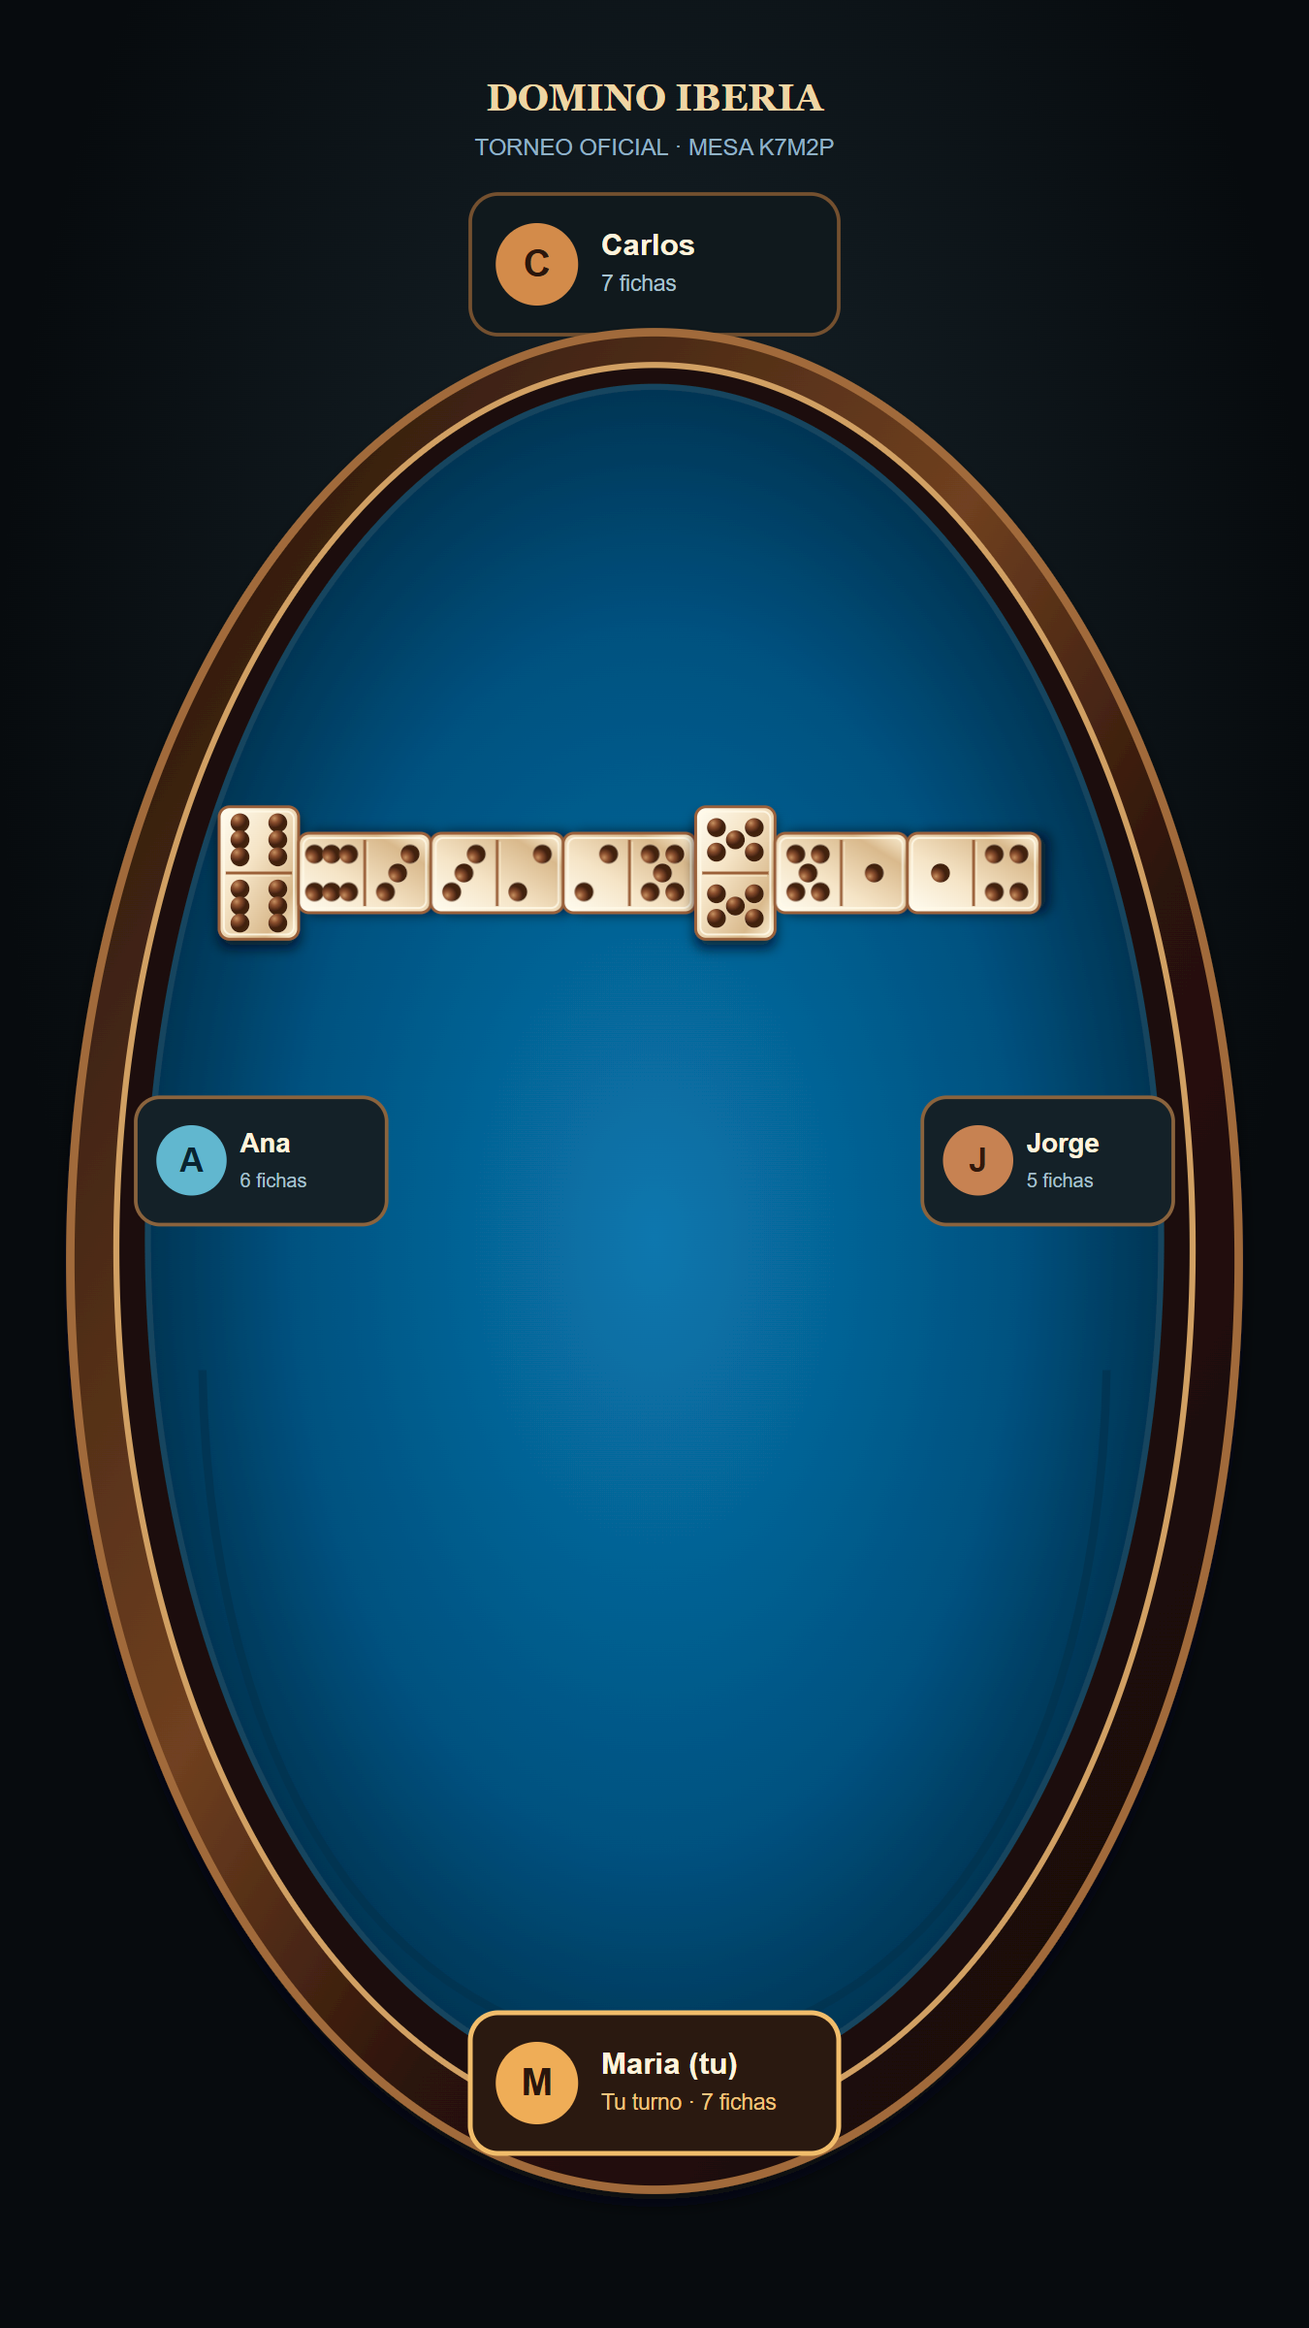
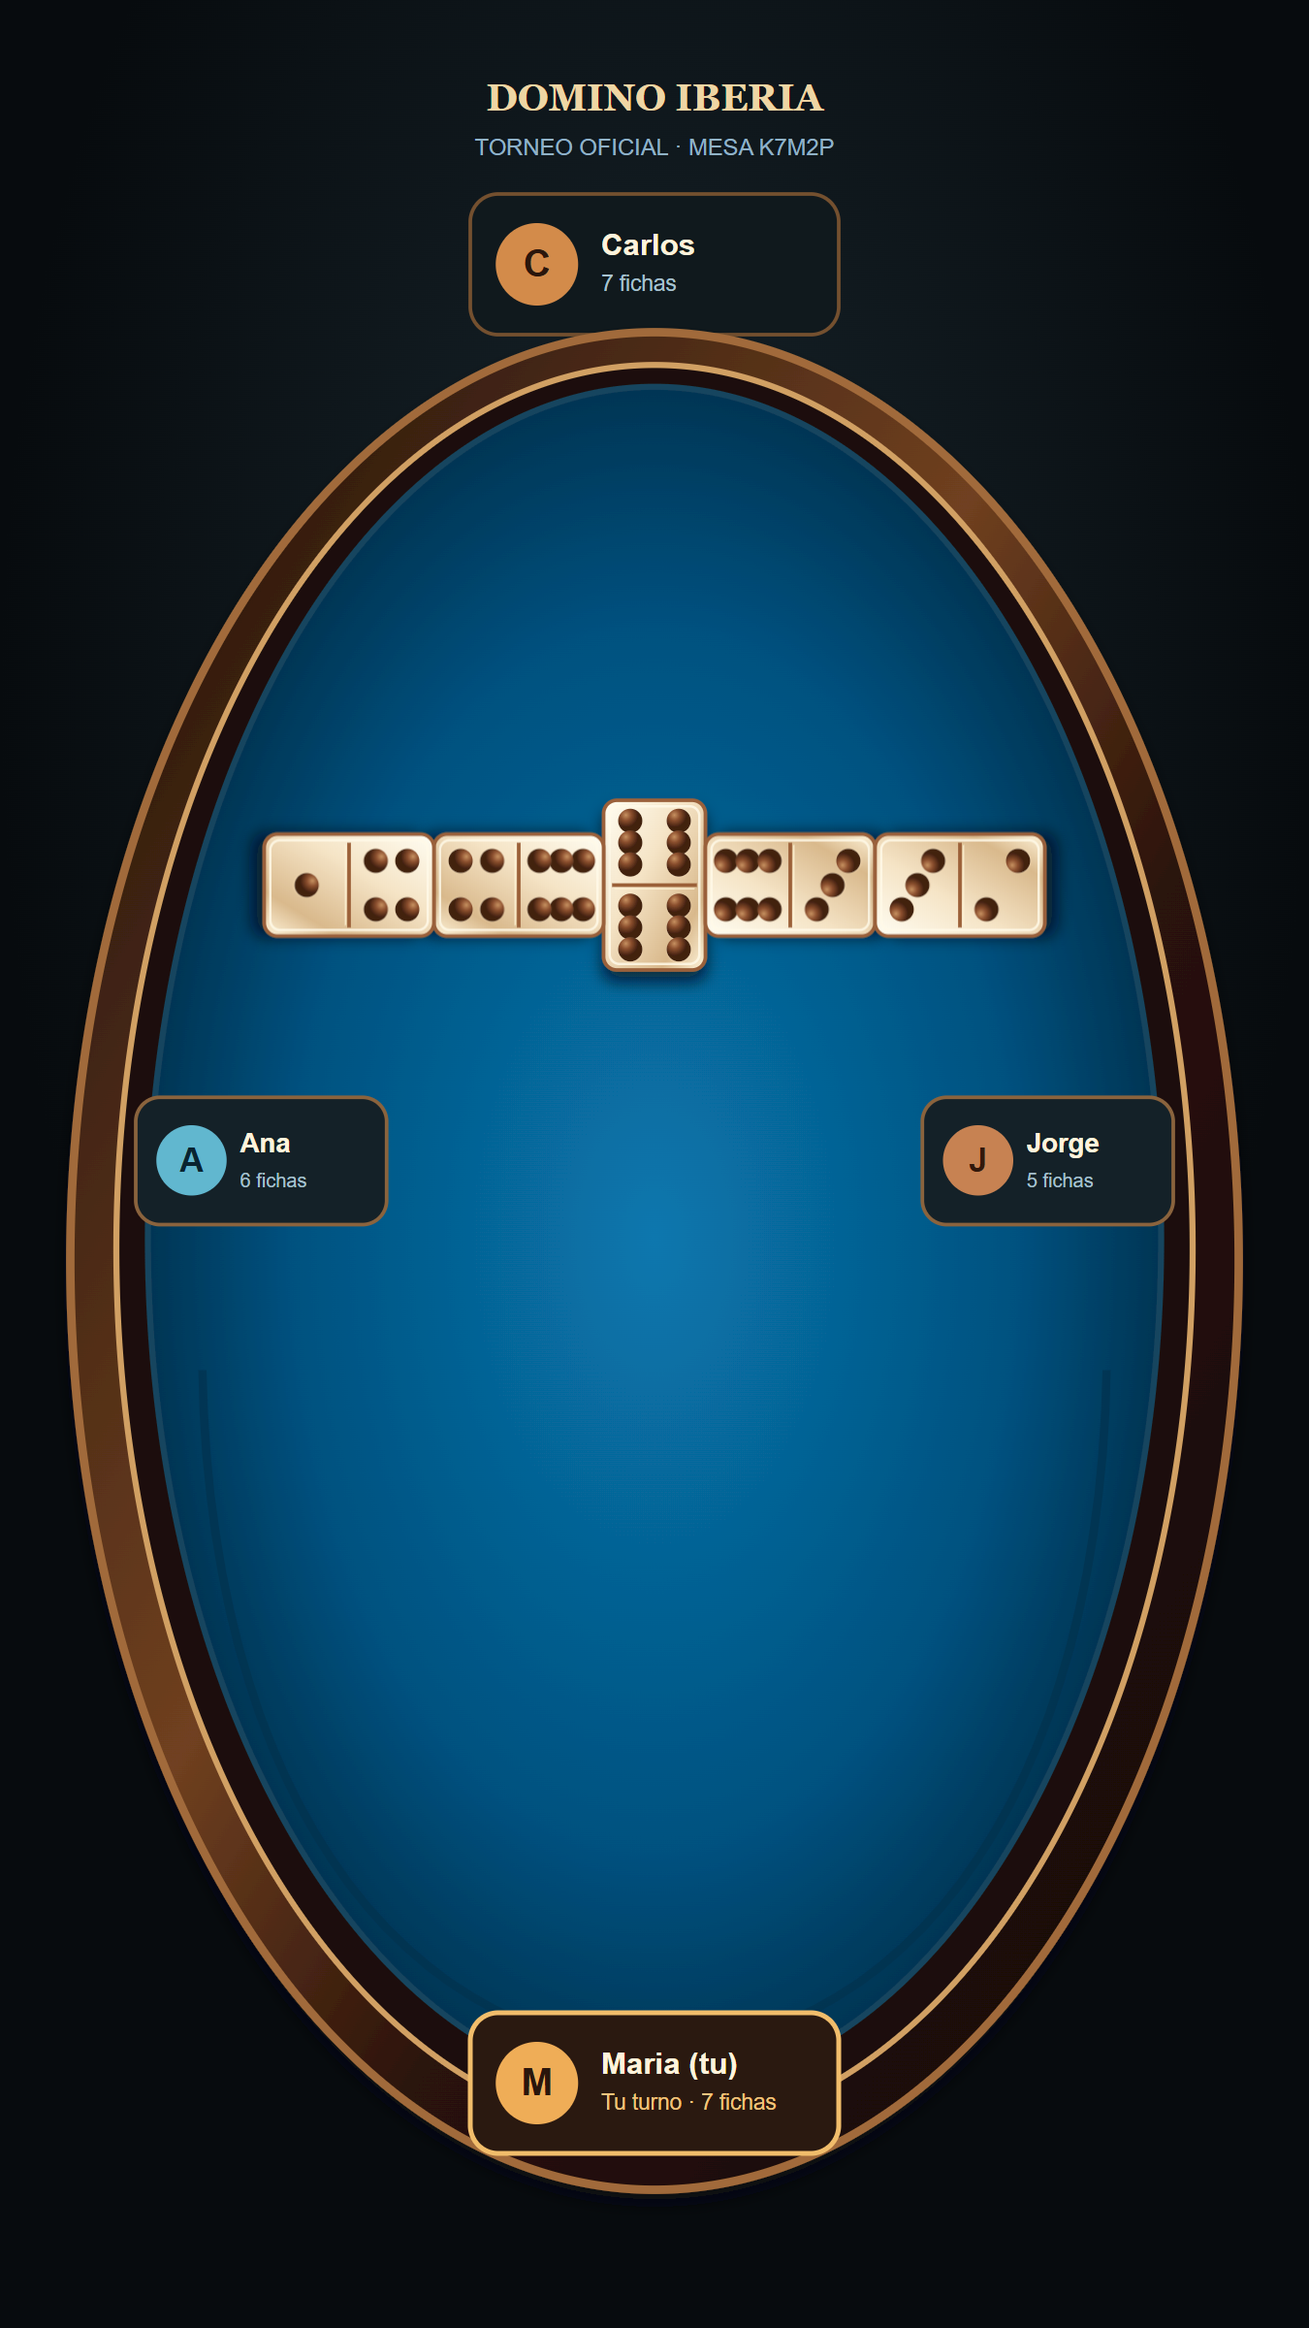
Fija salida y ramas de domino

Changed region(s): [[0.1556, 0.3438, 0.8089, 0.4375]]

diff --git a/frontend/src/components/Domino.css b/frontend/src/components/Domino.css
@@ -6,6 +6,8 @@
 @media (max-width: 720px) { .domino-cadena .domino-ficha.compacta { width: 16px; min-width: 16px; height: 26px; padding: 1px; }.domino-cadena .mesa-tramo.uno { top: 95px; left: calc(50% - 104px + var(--pos) * 26px); }.domino-cadena .mesa-tramo.giro-derecha { top: calc(111px + var(--pos) * 26px); right: calc(50% - 107px); }.domino-cadena .mesa-tramo.dos { top: 255px; right: calc(50% - 104px + var(--pos) * 26px); }.domino-cadena .mesa-tramo.giro-izquierda { top: calc(271px + var(--pos) * 26px); left: calc(50% - 120px); } }
 .domino-cadena { display: grid; place-items: center; overflow: hidden; padding: 72px 20px; }.domino-linea { display: flex; align-items: center; justify-content: center; transform: scale(var(--escala)); transform-origin: center; }.domino-linea .domino-ficha.compacta { position: relative; flex: 0 0 36px; width: 22px; min-width: 22px; height: 36px; margin: 0; padding: 2px; transform: rotate(-90deg); }.domino-linea .domino-ficha.compacta.doble { transform: rotate(0deg); }.domino-linea .domino-ficha.compacta .domino-cara i { width: 3px; height: 3px; }
 @media (max-width: 720px) { .domino-cadena { padding: 58px 10px; }.domino-linea { transform: scale(var(--escala-movil)); }.domino-linea .domino-ficha.compacta { flex-basis: 28px; width: 18px; min-width: 18px; height: 28px; padding: 1px; }.domino-linea .domino-ficha.compacta .domino-cara i { width: 2px; height: 2px; } }
+.domino-cadena .salida, .domino-rama .domino-ficha.compacta { position: absolute; width: 22px; min-width: 22px; height: 36px; margin: 0; padding: 2px; }.domino-cadena .salida { top: calc(50% - 18px); left: calc(50% - 11px); transform: none; }.domino-rama { position: absolute; inset: 0; }.domino-rama .tramo { top: calc(50% - 18px); }.domino-rama.derecha .tramo { left: calc(50% + 18px + var(--pos) * 36px); transform: rotate(-90deg); }.domino-rama.izquierda .tramo { right: calc(50% + 18px + var(--pos) * 36px); transform: rotate(90deg); }.domino-rama .bajada { top: calc(50% + 18px + var(--pos) * 36px); transform: rotate(0deg); }.domino-rama.derecha .bajada { left: calc(50% + 234px); }.domino-rama.izquierda .bajada { right: calc(50% + 234px); }.domino-rama .regreso { top: calc(50% + 180px); }.domino-rama.derecha .regreso { left: calc(50% + 198px - var(--pos) * 36px); transform: rotate(90deg); }.domino-rama.izquierda .regreso { right: calc(50% + 198px - var(--pos) * 36px); transform: rotate(-90deg); }.domino-rama .tramo.doble, .domino-rama .regreso.doble { transform: rotate(0deg); }.domino-rama .bajada.doble { transform: rotate(90deg); }.domino-linea-legada { transform: scale(.5); }
+@media (max-width: 720px) { .domino-cadena .salida, .domino-rama .domino-ficha.compacta { width: 16px; min-width: 16px; height: 26px; padding: 1px; }.domino-cadena .salida { top: calc(50% - 13px); left: calc(50% - 8px); }.domino-rama .tramo { top: calc(50% - 13px); }.domino-rama.derecha .tramo { left: calc(50% + 13px + var(--pos) * 26px); }.domino-rama.izquierda .tramo { right: calc(50% + 13px + var(--pos) * 26px); }.domino-rama .bajada { top: calc(50% + 13px + var(--pos) * 26px); }.domino-rama.derecha .bajada { left: calc(50% + 169px); }.domino-rama.izquierda .bajada { right: calc(50% + 169px); }.domino-rama .regreso { top: calc(50% + 130px); }.domino-rama.derecha .regreso { left: calc(50% + 143px - var(--pos) * 26px); }.domino-rama.izquierda .regreso { right: calc(50% + 143px - var(--pos) * 26px); } }
 .domino-tablero { min-height: 510px; padding: 0; overflow: hidden; border: 10px solid #4a210f; border-radius: 58px; background: #281209; box-shadow: inset 0 0 0 2px #a96532, 0 14px 28px rgba(0, 0, 0, .3); }.domino-mesa { min-height: 430px; border: 10px solid #1d0d07; border-radius: 48px 48px 28px 28px; background: radial-gradient(circle at 50% 45%, #075c91 0%, #03416b 55%, #022c4b 100%); box-shadow: inset 0 0 0 3px #7c3c1b, inset 0 0 40px rgba(0, 0, 0, .4); }.domino-cadena { position: absolute; inset: 0; }.domino-cadena > span { position: absolute; inset: 0; display: grid; place-items: center; color: #d8e6ec; }.domino-ficha { border-color: #d7a26c; background: linear-gradient(135deg, #fff8e9, #f0c995); box-shadow: 0 2px 4px rgba(0, 0, 0, .5), inset 0 1px 0 #fffdf5; }.domino-ficha > b { background: #bd8758; }.domino-cara i { background: radial-gradient(circle at 35% 30%, #a35d37 0 12%, #603018 35% 100%); }.domino-ficha.compacta { width: 34px; min-width: 34px; height: 54px; border-color: #d7a26c; }.domino-ficha.compacta .domino-cara i { width: 4px; height: 4px; }.domino-cadena .mesa-tramo.uno { top: 49%; left: calc(25% + var(--pos) * 5.4%); transform: rotate(90deg); }.domino-cadena .mesa-tramo.dos { top: 64%; right: calc(25% + var(--pos) * 5.4%); transform: rotate(90deg); }.domino-cadena .mesa-tramo.giro-derecha { right: 23%; top: calc(49% + var(--pos) * 8%); }.domino-cadena .mesa-tramo.giro-izquierda { left: 23%; bottom: calc(10% + var(--pos) * 8%); }.domino-asiento { position: absolute; z-index: 2; display: flex; align-items: center; gap: 8px; min-width: 148px; padding: 7px 10px; border: 2px solid #8e5734; border-radius: 13px; background: linear-gradient(145deg, #44200f, #1d0c06); color: #fff2dd; box-shadow: 0 5px 12px rgba(0, 0, 0, .45); }.domino-asiento.arriba { top: 15px; left: 50%; transform: translateX(-50%); }.domino-asiento.abajo { bottom: 15px; left: 50%; transform: translateX(-50%); }.domino-asiento.izquierda { left: 14px; top: 50%; transform: translateY(-50%); }.domino-asiento.derecha { right: 14px; top: 50%; transform: translateY(-50%); }.domino-asiento.soy-yo { border-color: #f2b868; box-shadow: 0 0 0 2px rgba(242, 184, 104, .2), 0 5px 12px rgba(0, 0, 0, .45); }.domino-asiento.turno-activo { border-color: #76d4ff; }.domino-asiento strong { display: block; font-size: 14px; }.domino-asiento span { display: block; margin-top: 2px; color: #ecc49e; font-size: 12px; }.domino-avatar { display: grid; width: 30px; height: 30px; flex: 0 0 30px; place-items: center; border-radius: 50%; background: linear-gradient(135deg, #f2c16d, #a94e2b); color: #211008; font-weight: 900; }.domino-controles { padding: 14px; background: #341507; }
 @media (max-width: 720px) { .domino-tablero { min-height: 410px; border-width: 7px; border-radius: 34px; }.domino-mesa { min-height: 340px; border-width: 6px; border-radius: 28px; }.domino-asiento { min-width: 104px; padding: 5px 7px; gap: 5px; }.domino-asiento strong { font-size: 11px; }.domino-asiento span { font-size: 10px; }.domino-avatar { width: 23px; height: 23px; flex-basis: 23px; font-size: 12px; }.domino-cadena .mesa-tramo.uno { left: calc(18% + var(--pos) * 8%); }.domino-cadena .mesa-tramo.dos { right: calc(18% + var(--pos) * 8%); }.domino-cadena .mesa-tramo.giro-derecha { right: 13%; }.domino-cadena .mesa-tramo.giro-izquierda { left: 13%; } }
 .domino-ficha { border: 2px solid #9a613a; border-radius: 9px; background: linear-gradient(135deg, #fffdf2 0%, #f5e4c6 40%, #d9b98c 78%, #fff5dc 100%); box-shadow: 0 5px 7px rgba(0, 0, 0, .5), inset 0 1px 0 #fffdf3, inset 0 0 0 2px rgba(255, 250, 232, .75); }.domino-ficha > b { height: 2px; background: linear-gradient(#8b5230, #f7e5c7); }.domino-cara i { width: 8px; height: 8px; background: radial-gradient(circle at 32% 26%, #c69060 0 12%, #8b4f2e 42%, #422010 100%); box-shadow: 0 1px 1px rgba(255, 233, 196, .7), inset 0 1px 1px rgba(46, 19, 8, .65); }.domino-ficha.compacta { width: 36px; min-width: 36px; height: 58px; border-radius: 6px; padding: 3px; }.domino-ficha.compacta .domino-cara i { width: 4px; height: 4px; }

diff --git a/frontend/src/components/Domino.jsx b/frontend/src/components/Domino.jsx
@@ -22,6 +22,16 @@ function asientoMesa(posicion, miPosicion) {
   return ['abajo', 'derecha', 'arriba', 'izquierda'][(posicion - miPosicion + 4) % 4]
 }
 
+function claseRama(lado, indice) {
+  if (indice < 6) return `rama-${lado} tramo`
+  if (indice < 10) return `rama-${lado} bajada`
+  return `rama-${lado} regreso`
+}
+
+function RamaDomino({ lado, fichas }) {
+  return <div className={`domino-rama ${lado}`}>{fichas.map((ficha, indice) => <Ficha key={`${fichaKey(ficha)}-${indice}`} ficha={ficha} compacta mesaClase={claseRama(lado, indice)} style={{ '--pos': indice < 6 ? indice : indice < 10 ? indice - 6 : indice - 10 }} />)}</div>
+}
+
 function Domino() {
   const navigate = useNavigate()
   const token = localStorage.getItem('token')
@@ -129,7 +139,7 @@ function Domino() {
     <section className="domino-score">{[0, 1].map(pareja => <div key={pareja} className={partida?.mi_posicion % 2 === pareja ? 'mi-pareja' : ''}><span>Pareja {pareja + 1}</span><strong>{partida?.puntuacion?.[pareja] || 0}</strong><small>/ {partida?.limite_puntos || 200}</small></div>)}</section>
     {partida?.estado === 'jugando' && <section className={`domino-ubicacion ${partida.ubicacion_pareja_lista ? 'verificada' : ''}`}><span>{partida.ubicacion_pareja_lista ? 'Ubicación de la pareja verificada' : 'La pareja debe validar una distancia mínima de 1 km'}</span>{!partida.ubicacion_pareja_lista && <button className="domino-secondary" onClick={activarUbicacion} disabled={accionando}>Activar ubicación</button>}</section>}
     <section className="domino-tablero"><div className="domino-mesa">{partida?.jugadores?.map(jugador => <div className={`domino-asiento ${asientoMesa(jugador.posicion, partida.mi_posicion)} ${jugador.posicion === partida.mi_posicion ? 'soy-yo ' : ''}${jugador.posicion === partida.turno ? 'turno-activo' : ''}`} key={jugador.id}><div className="domino-avatar">{jugador.nombre.slice(0, 1).toUpperCase()}</div><div><strong>{jugador.nombre}{jugador.posicion === partida.mi_posicion ? ' (tú)' : ''}</strong><span>{jugador.fichas} fichas</span></div></div>)}<div className="domino-cadena">{partida?.mesa?.length ? partida.mesa.map((ficha, indice) => <Ficha key={`${fichaKey(ficha)}-${indice}`} ficha={ficha} compacta mesaClase={claseMesa(indice)} />) : <span>La mesa espera la salida.</span>}</div></div>{miTurno && partida?.estado === 'jugando' && <div className="domino-controles"><button className="domino-secondary" disabled={!seleccionada || accionando} onClick={() => enviarJugada('izquierda')}>Jugar izquierda</button><button className="domino-primary" disabled={!seleccionada || accionando} onClick={() => enviarJugada('derecha')}>Jugar derecha</button><button className="domino-pass" disabled={accionando} onClick={pasar}>Pasar</button></div>}</section>
-      <section className="domino-tablero"><div className="domino-mesa">{partida?.jugadores?.map(jugador => <div className={`domino-asiento ${asientoMesa(jugador.posicion, partida.mi_posicion)} ${jugador.posicion === partida.mi_posicion ? 'soy-yo ' : ''}${jugador.posicion === partida.turno ? 'turno-activo' : ''}`} key={jugador.id}><div className="domino-avatar">{jugador.nombre.slice(0, 1).toUpperCase()}</div><div><strong>{jugador.nombre}{jugador.posicion === partida.mi_posicion ? ' (tú)' : ''}</strong><span>{jugador.fichas} fichas</span></div></div>)}<div className="domino-cadena" style={{ '--escala': Math.min(1, 18 / Math.max(partida?.mesa?.length || 1, 1)), '--escala-movil': Math.min(1, 8 / Math.max(partida?.mesa?.length || 1, 1)) }}>{partida?.mesa?.length ? <div className="domino-linea">{partida.mesa.map((ficha, indice) => <Ficha key={`${fichaKey(ficha)}-${indice}`} ficha={ficha} compacta />)}</div> : <span>La mesa espera la salida.</span>}</div></div>{miTurno && partida?.estado === 'jugando' && <div className="domino-controles"><button className="domino-secondary" disabled={!seleccionada || accionando} onClick={() => enviarJugada('izquierda')}>Jugar izquierda</button><button className="domino-primary" disabled={!seleccionada || accionando} onClick={() => enviarJugada('derecha')}>Jugar derecha</button><button className="domino-pass" disabled={accionando} onClick={pasar}>Pasar</button></div>}</section>
+      <section className="domino-tablero"><div className="domino-mesa">{partida?.jugadores?.map(jugador => <div className={`domino-asiento ${asientoMesa(jugador.posicion, partida.mi_posicion)} ${jugador.posicion === partida.mi_posicion ? 'soy-yo ' : ''}${jugador.posicion === partida.turno ? 'turno-activo' : ''}`} key={jugador.id}><div className="domino-avatar">{jugador.nombre.slice(0, 1).toUpperCase()}</div><div><strong>{jugador.nombre}{jugador.posicion === partida.mi_posicion ? ' (tú)' : ''}</strong><span>{jugador.fichas} fichas</span></div></div>)}<div className="domino-cadena">{partida?.salida ? <><Ficha ficha={partida.salida} compacta mesaClase="salida" /><RamaDomino lado="izquierda" fichas={partida.rama_izquierda || []} /><RamaDomino lado="derecha" fichas={partida.rama_derecha || []} /></> : partida?.mesa?.length ? <div className="domino-linea domino-linea-legada">{partida.mesa.map((ficha, indice) => <Ficha key={`${fichaKey(ficha)}-${indice}`} ficha={ficha} compacta />)}</div> : <span>La mesa espera la salida.</span>}</div></div>{miTurno && partida?.estado === 'jugando' && <div className="domino-controles"><button className="domino-secondary" disabled={!seleccionada || accionando} onClick={() => enviarJugada('izquierda')}>Jugar izquierda</button><button className="domino-primary" disabled={!seleccionada || accionando} onClick={() => enviarJugada('derecha')}>Jugar derecha</button><button className="domino-pass" disabled={accionando} onClick={pasar}>Pasar</button></div>}</section>
     <section className="domino-mano"><div><h2>Tus fichas</h2><span>{miTurno ? 'Selecciona una ficha' : 'Esperando turno'}</span></div><div className="domino-fichas">{partida?.mis_fichas?.map((ficha, indice) => <Ficha key={`${fichaKey(ficha)}-${indice}`} ficha={ficha} activa={seleccionada && fichaKey(seleccionada) === fichaKey(ficha)} onClick={() => miTurno && setSeleccionada(ficha)} />)}</div></section>
     <section className="domino-eventos"><h2>Últimas jugadas</h2>{partida?.eventos?.map((evento, indice) => <p key={`${evento}-${indice}`}>{evento}</p>)}</section>
   </main>

diff --git a/api_simple.py b/api_simple.py
@@ -3867,7 +3867,8 @@ def _iniciar_mano_domino(jugadores, puntuacion, salidor_anterior=None, primera_m
         salidor = (salidor_anterior + 1) % 4
     return {
         'mano': numero_mano, 'puntuacion': puntuacion, 'salidor': salidor, 'turno': salidor,
-        'mesa': [], 'manos': manos, 'pases_seguidos': 0, 'ubicaciones': {},
+        'mesa': [], 'salida': None, 'rama_izquierda': [], 'rama_derecha': [],
+        'manos': manos, 'pases_seguidos': 0, 'ubicaciones': {},
         'eventos': [f"Comienza la mano {numero_mano}. Sale {jugadores[salidor]['nombre']}."]
     }
 
@@ -3921,7 +3922,8 @@ def _vista_domino(jugadores, juego, jugador_id, estado):
     if juego:
         respuesta.update({
             'mano': juego['mano'], 'puntuacion': juego['puntuacion'], 'salidor': juego['salidor'],
-            'turno': juego['turno'], 'mesa': juego['mesa'],
+            'turno': juego['turno'], 'mesa': juego['mesa'], 'salida': juego.get('salida'),
+            'rama_izquierda': juego.get('rama_izquierda', []), 'rama_derecha': juego.get('rama_derecha', []),
             'mis_fichas': juego['manos'].get(str(jugador_id), []),
             'pases_seguidos': juego['pases_seguidos'], 'eventos': juego.get('eventos', [])[-6:],
             'ganador': juego.get('ganador'),
@@ -4112,6 +4114,12 @@ def jugar_domino(codigo: str, datos: DominoJugadaRequest, usuario=Depends(obtene
             if extremo not in ficha_real: raise HTTPException(status_code=400, detail="La ficha no encaja a la derecha")
             ficha_orientada = ficha_real if ficha_real[0] == extremo else ficha_real[::-1]
         mano.remove(ficha_real)
+        if not juego['mesa']:
+            juego['salida'] = ficha_orientada
+        elif datos.lado == 'izquierda':
+            juego.setdefault('rama_izquierda', []).append(ficha_orientada[::-1])
+        else:
+            juego.setdefault('rama_derecha', []).append(ficha_orientada)
         if datos.lado == 'izquierda': juego['mesa'].insert(0, ficha_orientada)
         else: juego['mesa'].append(ficha_orientada)
         juego['pases_seguidos'] = 0
